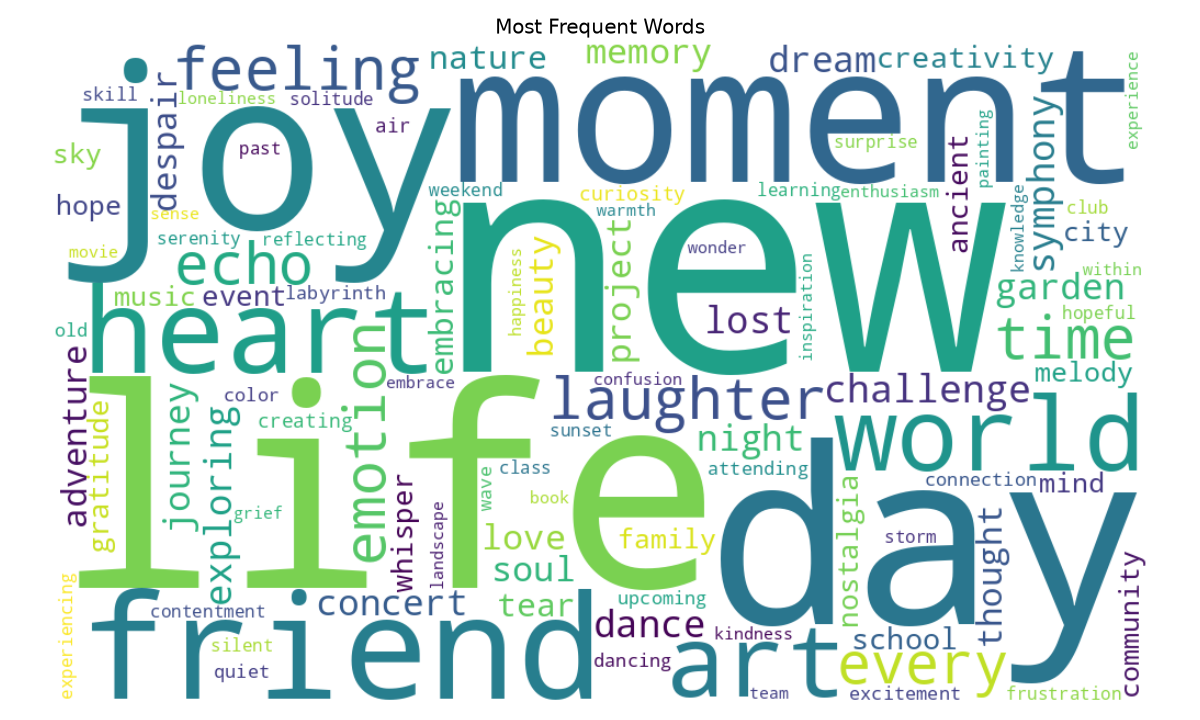
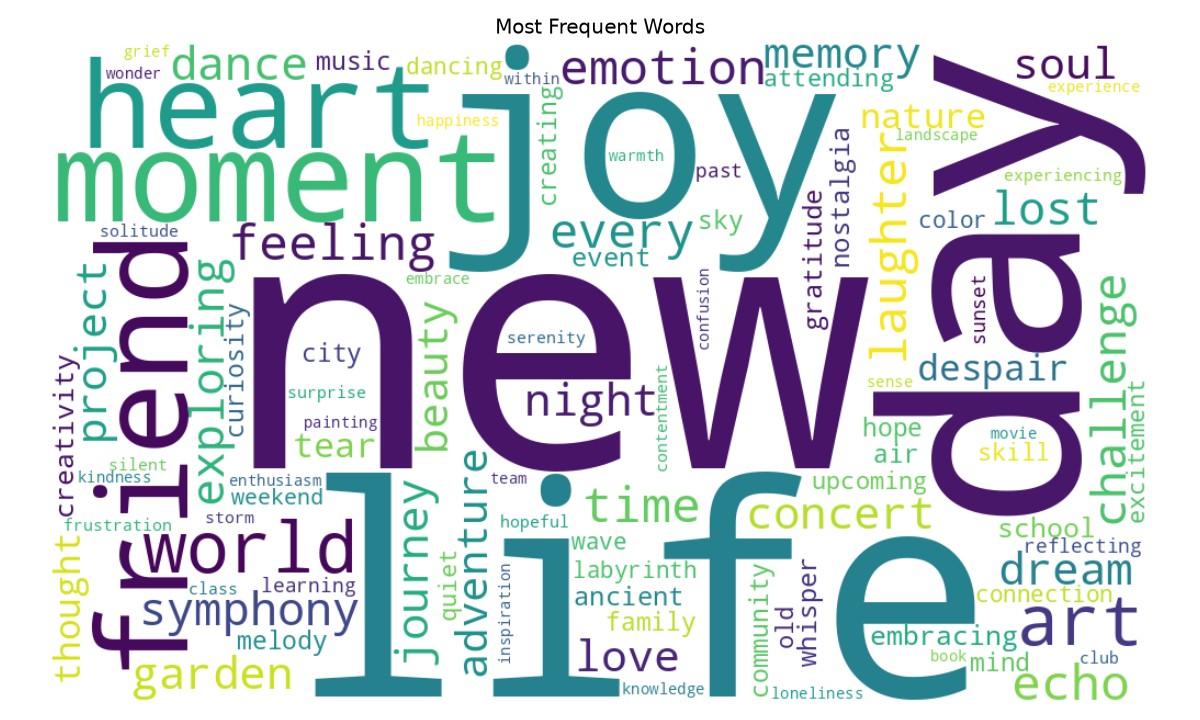
Clean up comments in level 3 scripts

diff --git a/level3_task1_classification.py b/level3_task1_classification.py
@@ -12,8 +12,7 @@ from sklearn.ensemble import RandomForestClassifier
 from sklearn.model_selection import GridSearchCV
 from sklearn.metrics import accuracy_score, precision_score, recall_score, f1_score
 
-# Codveda already split this dataset 80/20 - use their split rather than
-# making your own, so the evaluation matches how the assignment intends it.
+# Codveda provides an 80/20 split already.
 train = pd.read_csv('../data/churn-bigml-80.csv')
 test = pd.read_csv('../data/churn-bigml-20.csv')
 print("Train:", train.shape, "| Test:", test.shape)
@@ -29,9 +28,7 @@ def preprocess(df, encoders=None, fit=False):
             df[col] = le.fit_transform(df[col])
             encoders[col] = le
     else:
-        # Fit only on train, then reuse (.transform, not .fit_transform) on
-        # test - fitting separately on test would let category codes drift
-        # between the two sets.
+        # Fit encoders on train only, reuse on test.
         for col in cat_cols:
             df[col] = encoders[col].transform(df[col])
     df['Churn'] = df['Churn'].astype(int)
@@ -58,9 +55,7 @@ results = []
 for name, m in models.items():
     m.fit(X_train_s, y_train)
     preds = m.predict(X_test_s)
-    # Precision/recall/F1 matter more than accuracy here: churn is a
-    # minority class, so a model that just predicts "no churn" every time
-    # would still score high accuracy while being useless.
+    # F1 matters more than accuracy - churn is a minority class.
     results.append({
         'Model': name,
         'Accuracy': accuracy_score(y_test, preds),

diff --git a/level3_task3_nlp.py b/level3_task3_nlp.py
@@ -25,21 +25,15 @@ def preprocess(text):
     return [lemmatizer.lemmatize(t) for t in tokens]
 
 
-# This cleaned/lemmatized text is used ONLY for the word-frequency /
-# word-cloud step below - word frequency should ignore filler words
-# like "the"/"and".
+# Cleaned tokens are for the word cloud.
 df['tokens'] = df['Text'].apply(preprocess)
 df['clean_text'] = df['tokens'].apply(lambda t: ' '.join(t))
 
-# VADER scores the ORIGINAL text, not the cleaned version. It's a
-# rule-based lexicon that reads punctuation ("!!!") and capitalization
-# ("AMAZING") as intensity signals, so stripping those first would make
-# it LESS accurate, not more.
+# VADER scores the original text.
 sia = SentimentIntensityAnalyzer()
 df['compound'] = df['Text'].apply(lambda t: sia.polarity_scores(str(t))['compound'])
 
-# These thresholds (+/- 0.05) are VADER's own documented cutoffs for
-# classifying positive/negative vs. neutral.
+# Standard VADER thresholds.
 df['Predicted_Sentiment'] = df['compound'].apply(
     lambda c: 'Positive' if c >= 0.05 else ('Negative' if c <= -0.05 else 'Neutral')
 )

diff --git a/README.md b/README.md
@@ -1,31 +1,73 @@
-# Codveda Level 3 — Advanced (Data Analytics Internship)
+# Codveda Level 3 — Advanced
 
-Daniel Quoby Soglo · quobydaniels@gmail.com
+Level 3 of the Codveda internship: classification, a dashboard, and NLP.
 
-Three tasks on the **Telecom churn** and **Sentiment** datasets. All run end-to-end; numbers are real output.
+## Task 1 — Classification (`level3_task1_classification.py`)
 
-## Tasks
+Telecom churn prediction using Codveda's own 80/20 train/test split.
 
-### 1. Predictive Modeling — Classification (`level3_task1_classification.py`)
-- Dataset: Telecom customer churn (Codveda 80/20 split).
-- LabelEncoder (train-only fit), StandardScaler, Logistic Regression / Decision Tree / Random Forest, grid search on RF.
-- **Result (F1 / accuracy):** LR 0.258/0.853 · DT 0.715/0.918 · RF 0.775/0.946 · **Tuned RF 0.826/0.955** (`max_depth=20, min_samples_split=5, n_estimators=100`).
+I encoded the categorical columns (State, International plan, Voice mail
+plan) with LabelEncoder fit on the training set only, then transformed the
+test set — fitting separately would let the category codes drift between
+the two.
 
-### 3. NLP — Sentiment Analysis (`level3_task3_nlp.py`)
-- Dataset: cleaned sentiment data (Level 1 output).
-- Tokenize/stopword/lemmatize; VADER on original text (±0.05 thresholds); word cloud.
-- **Result:** Positive 443 · Negative 185 · Neutral 82.
+Compared three models:
 
-### 2. Interactive Dashboard — Streamlit ✅
-- **Status:** completed with a self-hosted Streamlit dashboard (`level3_task2_dashboard.py`) — Linux-friendly equivalent of Power BI/Tableau.
-- **What it does:** loads the cleaned sentiment data, computes 3-class sentiment via VADER, and shows interactive charts — sentiment distribution, top emotions, likes per year, retweets vs likes, engagement by platform — all filterable from the sidebar.
-- **Verified:** boots clean (`streamlit run` → health check `ok`); 3-class sentiment matches Task 3 (443 Positive / 185 Negative / 82 Neutral).
-- **Alternative:** Tableau Public (`L3_TASK2_TABLEAU_GUIDE.md`) for a publishable dashboard-with-URL if you prefer the named tool.
+| Model | Accuracy | F1 |
+|---|---|---|
+| Logistic Regression | 0.853 | 0.258 |
+| Decision Tree | 0.918 | 0.715 |
+| Random Forest | 0.946 | 0.775 |
+| Random Forest (tuned) | **0.955** | **0.826** |
 
-## Charts
-All PNGs under `plots/`.
+The tuned random forest used max_depth=20, min_samples_split=5,
+n_estimators=100, chosen by grid search with 3-fold CV on F1.
 
-## Reproduce
+Accuracy is the wrong headline metric here — only about 14% of customers
+churn, so predicting "no churn" every time scores ~86% accuracy while
+being useless. F1 is what I paid attention to.
+
+## Task 2 — Dashboard (`level3_task2_dashboard.py`)
+
+The brief said Power BI or Tableau. Power BI doesn't run on Linux, so I
+built the dashboard in Streamlit instead — same job, works on my machine.
+
+It loads the cleaned sentiment data, computes a 3-class sentiment
+(positive / negative / neutral) with VADER, and shows:
+
+- sentiment distribution (443 positive, 185 negative, 82 neutral)
+- top emotions
+- likes per year
+- retweets vs likes
+- engagement by platform
+
+All of it is filterable from the sidebar (sentiment, platform, year).
+
+Run it with:
+
+```bash
+streamlit run level3_task2_dashboard.py
+```
+
+(from the parent folder, since it reads `level1_basic/cleaned_sentiment_dataset.csv`)
+
+If you'd rather see it in Tableau, there's a guide in
+`L3_TASK2_TABLEAU_GUIDE.md`.
+
+## Task 3 — NLP Sentiment Analysis (`level3_task3_nlp.py`)
+
+Tokenized, removed stopwords and lemmatized the text with nltk, then scored
+sentiment with VADER.
+
+One detail that mattered: I scored the *original* text, not the cleaned
+tokens. VADER reads punctuation and capitalisation as intensity signals
+("great!!!" scores higher than "great"), so stripping those first makes it
+less accurate, not more.
+
+Results: 443 positive, 185 negative, 82 neutral.
+
+## Running
+
 ```bash
 python3 -m venv venv && source venv/bin/activate
 pip install pandas numpy matplotlib scikit-learn nltk wordcloud
@@ -34,4 +76,4 @@ python3 level3_task1_classification.py
 python3 level3_task3_nlp.py
 ```
 
-*Raw datasets ship in the parent Codveda bundle (`data/`). Copy them next to this folder to run.*
+The raw CSVs are in the parent `data/` folder of the main project.
